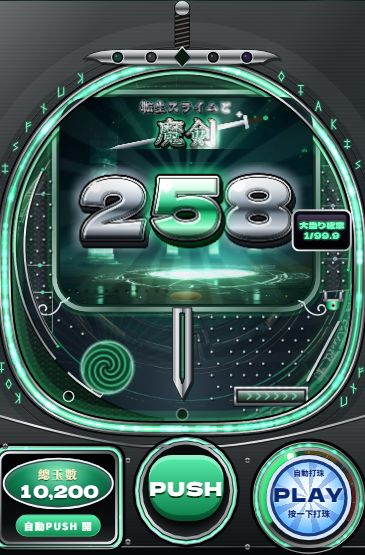
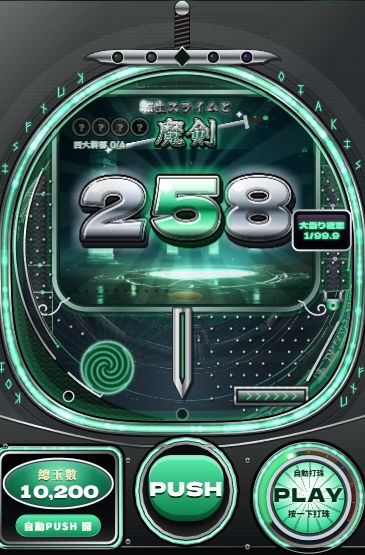
v71: machine 4 polish and gear frame

diff --git a/src/cabinet.js b/src/cabinet.js
@@ -663,17 +663,20 @@
     const holes = []; // black shapes in the body mask (acrylic / window)
     const acr = []; // translucent acrylic drawings
     let deco = ""; // everything on top
-    ART.strokes = []; ART.sprites = []; ART.leds = []; ART.fills = [];
+    ART.strokes = []; ART.sprites = []; ART.leds = []; ART.fills = []; S.ringBody = "";
 
     const win0 = loopPath(0, 3);
     holes.push(`<path d="${win0}"/>`);
 
-    // --- energy ring channel s 5..17
-    const band = loopPath(17, 3) + loopPath(5, 3);
-    holes.push(`<path d="${band}" fill-rule="evenodd"/>`);
-    acr.push(`<path d="${band}" fill-rule="evenodd" fill="url(#pkc-acryl)"/>`);
-    acr.push(`<path d="${loopPath(14.5, 3)}" fill="none" stroke="#fff" stroke-opacity=".10" stroke-width="2"/>`);
-    ART.strokes.push({ pts: loopPts(11, 11), closed: true, w: [16, 9, 2.6], gain: 1, main: true });
+    // --- energy ring channel s 5..17 (蒸氣巨神 can swap it for a ring of its own: S.ring, buildTitanRing)
+    const RING = S.frame === "titan" && S.ring ? S.ring : "band";
+    if (RING === "band") {
+      const band = loopPath(17, 3) + loopPath(5, 3);
+      holes.push(`<path d="${band}" fill-rule="evenodd"/>`);
+      acr.push(`<path d="${band}" fill-rule="evenodd" fill="url(#pkc-acryl)"/>`);
+      acr.push(`<path d="${loopPath(14.5, 3)}" fill="none" stroke="#fff" stroke-opacity=".10" stroke-width="2"/>`);
+      ART.strokes.push({ pts: loopPts(11, 11), closed: true, w: [16, 9, 2.6], gain: 1, main: true });
+    }
     // --- energy swirl band s0..s1 (lit by drawSwirl), clipped above the console
     const swirlD = loopPath(SWIRL.s1, 3) + loopPath(SWIRL.s0, 3);
     const WINGS = S.frame === "wings", SWORD = S.frame === "sword", TITAN = S.frame === "titan", PLAIN = WINGS || SWORD || TITAN;   // PLAIN: none of 炎舞神龍's ornaments
@@ -931,9 +934,11 @@
 
     // --- frame trims (chrome lips, bevels, engraving)
     let trims = "";
-    trims += `<path d="${loopPath(23, 3)}" fill="none" stroke="#06070a" stroke-width="3"/>`;
-    trims += `<path d="${loopPath(21.2, 3)}" fill="none" stroke="#9aa3ae" stroke-opacity=".35" stroke-width="1"/>`;
-    trims += `<path d="${loopPath(18.4, 3)}" fill="none" stroke="url(#pkc-chrome)" stroke-width="2.8"/>`;
+    if (RING === "band") {
+      trims += `<path d="${loopPath(23, 3)}" fill="none" stroke="#06070a" stroke-width="3"/>`;
+      trims += `<path d="${loopPath(21.2, 3)}" fill="none" stroke="#9aa3ae" stroke-opacity=".35" stroke-width="1"/>`;
+      trims += `<path d="${loopPath(18.4, 3)}" fill="none" stroke="url(#pkc-chrome)" stroke-width="2.8"/>`;
+    }
     trims += `<path d="${loopPath(3.6, 3)}" fill="none" stroke="url(#pkc-chrome)" stroke-width="3.2"/>`;
     trims += `<path d="${loopPath(0.6, 3)}" fill="none" stroke="#020203" stroke-width="2.4"/>`;
     trims += `<path d="${loopPath(36, 3)}" fill="none" stroke="#000" stroke-opacity=".5" stroke-width="1.4"/>`;
@@ -959,6 +964,7 @@
     s += `<rect width="588" height="860" fill="url(#pkc-carbon)" opacity=".5"/>`;
     }
     s += `<path d="${loopPath(60, 4)}" fill="none" stroke="#fff" stroke-opacity=".05" stroke-width="30"/>`;
+    s += S.ringBody || "";
     s += consoleBase;
     s += `</g>`;
     s += acr.join("");
@@ -1042,10 +1048,91 @@
 
   // 蒸氣巨神's cabinet (frame: "titan"): rivets round the frame, two pressure gauges in the top corners,
   // steam pipes down the sides and a half gear over the window, where the 3D head (titan3d.js) rests.
+  // 蒸氣巨神's own rings round the window, instead of the energy band every other machine has:
+  //  hatch: a riveted iron boiler-hatch ring with hex bolts, round lamps, two hinges and a locking handwheel;
+  //  gear:  a brass gear ring with teeth outward and lit slots through it;
+  //  pipe:  two copper pipes wrapped round the window, brass flanges, glowing sight glasses in the big one.
+  function buildTitanRing(style, holes, acr) {
+    let body = "", out = `<defs><linearGradient id="pkc-ironG" x1="0" y1="0" x2="1" y2="1"><stop offset="0" stop-color="#5a544c"/><stop offset=".45" stop-color="#2a2622"/><stop offset="1" stop-color="#121010"/></linearGradient></defs>`;
+    const band = (s0, s1) => loopPath(s1, 3) + " " + loopPath(s0, 3);
+    const clearOf = (p) => !(p[0] > 488 && p[1] > 316 && p[1] < 396) && !(p[1] < 112 && p[0] > 160 && p[0] < 428);   // the sub display; the half gear
+    const quad = (a, b, c, d) => `M${f1(a[0])},${f1(a[1])} L${f1(b[0])},${f1(b[1])} L${f1(c[0])},${f1(c[1])} L${f1(d[0])},${f1(d[1])} Z`;
+    const lamp = (p, r, k) => {
+      holes.push(`<circle cx="${f1(p[0])}" cy="${f1(p[1])}" r="${r}"/>`);
+      acr.push(`<circle cx="${f1(p[0])}" cy="${f1(p[1])}" r="${r}" fill="url(#pkc-ledGlass)"/>`);
+      ART.leds.push({ x: p[0], y: p[1], u: angU(p[0], p[1]), k });
+      return `<circle cx="${f1(p[0])}" cy="${f1(p[1])}" r="${r + 1.8}" fill="none" stroke="url(#pkc-brassG)" stroke-width="2.4"/>`;
+    };
+    if (style === "hatch") {
+      body += `<path d="${band(0, 27)}" fill-rule="evenodd" fill="url(#pkc-ironG)"/>`;
+      body += `<path d="${loopPath(27, 3)}" fill="none" stroke="url(#pkc-brassG)" stroke-width="3"/><path d="${loopPath(29, 3)}" fill="none" stroke="#000" stroke-opacity=".5" stroke-width="2"/>`;
+      body += `<path d="${loopPath(14, 3)}" fill="none" stroke="#000" stroke-opacity=".35" stroke-width="1.2"/>`;   // the seam between the two plates
+      let bolts = "", k = 0;
+      for (let deg = 0; deg < 360; deg += 8) {
+        const p = fpt(deg, 13.5);
+        if (!clearOf(p)) continue;
+        if (deg % 24 === 0) { out += lamp(p, 5.2, k++); continue; }
+        let hx = "";
+        for (let j = 0; j < 6; j++) { const a = j * 60 * DEG; hx += (j ? "L" : "M") + f1(p[0] + Math.cos(a) * 4.2) + "," + f1(p[1] + Math.sin(a) * 4.2); }
+        bolts += `<path d="${hx}Z"/>`;
+      }
+      out += `<g fill="url(#pkc-brassG)" stroke="#1a1006" stroke-width=".8">${bolts}</g>`;
+      for (const deg of [206, 236]) {   // hinges on the upper left
+        const m0 = fpt(deg, 40), m1 = fpt(deg, 48);
+        out += `<path d="${quad(fpt(deg - 3.5, 20), fpt(deg + 3.5, 20), fpt(deg + 3.5, 44), fpt(deg - 3.5, 44))}" fill="url(#pkc-ironG)" stroke="url(#pkc-brassG)" stroke-width="2"/>`;
+        out += `<line x1="${f1(m0[0])}" y1="${f1(m0[1])}" x2="${f1(m1[0])}" y2="${f1(m1[1])}" stroke="url(#pkc-brassG)" stroke-width="9" stroke-linecap="round"/>`;
+      }
+      const w = fpt(322, 16), R = 24;   // the locking handwheel on the upper right
+      let sp = "";
+      for (let j = 0; j < 6; j++) { const a = (j * 60 + 15) * DEG; sp += `M${f1(w[0])},${f1(w[1])} L${f1(w[0] + Math.cos(a) * R)},${f1(w[1] + Math.sin(a) * R)}`; }
+      out += `<circle cx="${f1(w[0] + 2)}" cy="${f1(w[1] + 3)}" r="${R + 3}" fill="none" stroke="#000" stroke-opacity=".5" stroke-width="7"/>`;
+      out += `<path d="${sp}" stroke="url(#pkc-brassG)" stroke-width="4.5"/><circle cx="${f1(w[0])}" cy="${f1(w[1])}" r="${R}" fill="none" stroke="url(#pkc-brassG)" stroke-width="6"/>`;
+      out += `<circle cx="${f1(w[0])}" cy="${f1(w[1])}" r="7" fill="#2a1406" stroke="url(#pkc-brassG)" stroke-width="3"/>`;
+    } else if (style === "gear") {
+      let teeth = "";
+      for (let deg = 0; deg < 360; deg += 5) teeth += quad(fpt(deg - 1.5, 19), fpt(deg + 1.5, 19), fpt(deg + 1, 31), fpt(deg - 1, 31));
+      body += `<path d="${teeth}" fill="url(#pkc-brassG)" stroke="#2a1a08" stroke-width="1"/>`;
+      body += `<path d="${band(0, 20)}" fill-rule="evenodd" fill="url(#pkc-brassG)"/><path d="${band(0, 20)}" fill-rule="evenodd" fill="#000" fill-opacity=".25"/>`;
+      body += `<path d="${loopPath(20, 3)}" fill="none" stroke="#2a1a08" stroke-width="1.6"/><path d="${loopPath(6, 3)}" fill="none" stroke="#fff0c8" stroke-opacity=".45" stroke-width="1.2"/>`;
+      let k = 0;
+      for (let deg = 0; deg < 360; deg += 7.5) {   // slots through the rim, lit from behind
+        const p = fpt(deg, 11.5);
+        if (!clearOf(p)) continue;
+        const i0 = fpt(deg, 5), i1 = fpt(deg, 18), nx = i1[0] - i0[0], ny = i1[1] - i0[1], L0 = Math.hypot(nx, ny) || 1, tx = (-ny / L0) * 3.6, ty = (nx / L0) * 3.6;
+        const d = quad([i0[0] + tx, i0[1] + ty], [i1[0] + tx, i1[1] + ty], [i1[0] - tx, i1[1] - ty], [i0[0] - tx, i0[1] - ty]);
+        holes.push(`<path d="${d}"/>`); acr.push(`<path d="${d}" fill="url(#pkc-ledGlass)"/>`);
+        ART.leds.push({ x: p[0], y: p[1], u: angU(p[0], p[1]), k: k++ });
+      }
+    } else if (style === "pipe") {
+      const pipe = (sm, w) => `<path d="${loopPath(sm, 3)}" fill="none" stroke="#1a0a04" stroke-width="${w + 2}"/><path d="${loopPath(sm, 3)}" fill="none" stroke="#8a4a20" stroke-width="${w}"/>` +
+        `<path d="${loopPath(sm - w * 0.18, 3)}" fill="none" stroke="#e8a070" stroke-width="${f1(w * 0.3)}" stroke-opacity=".8"/><path d="${loopPath(sm - w * 0.28, 3)}" fill="none" stroke="#fff0e0" stroke-width="1.4" stroke-opacity=".55"/>`;
+      body += `<path d="${band(0, 32)}" fill-rule="evenodd" fill="#0c0806" fill-opacity=".55"/>`;
+      body += pipe(27, 7);
+      body += pipe(12, 14);
+      for (let deg = 0; deg < 360; deg += 30) {
+        // a brass flange round both pipes
+        out += `<path d="${quad(fpt(deg - 1.2, 3), fpt(deg + 1.2, 3), fpt(deg + 1.2, 32), fpt(deg - 1.2, 32))}" fill="url(#pkc-brassG)" stroke="#2a1a08" stroke-width="1"/>`;
+        // a sight glass in the big pipe between flanges: a lit slit
+        const pts = arcPts(deg + 9, deg + 21, 12, 3), mid = pts[Math.floor(pts.length / 2)];
+        if (!clearOf(mid)) continue;
+        const o = arcPts(deg + 9, deg + 21, 15, 3), i = arcPts(deg + 9, deg + 21, 9, 3), d2 = ptsPath(o.concat(i.slice().reverse()), true);
+        holes.push(`<path d="${d2}"/>`); acr.push(`<path d="${d2}" fill="url(#pkc-acryl)"/>`);
+        out += `<path d="${d2}" fill="none" stroke="url(#pkc-brassG)" stroke-width="1.6"/>`;
+        ART.strokes.push({ pts, closed: false, w: [9, 5, 1.6], gain: 0.95 });
+      }
+      for (const deg of [200, 340]) {   // valves with red handwheels
+        const v = fpt(deg, 27);
+        out += `<circle cx="${f1(v[0])}" cy="${f1(v[1])}" r="9" fill="url(#pkc-brassG)" stroke="#2a1a08"/><circle cx="${f1(v[0])}" cy="${f1(v[1] - 12)}" r="9" fill="none" stroke="#c0281a" stroke-width="3.5"/>`;
+        out += `<path d="M${f1(v[0] - 9)},${f1(v[1] - 12)} L${f1(v[0] + 9)},${f1(v[1] - 12)} M${f1(v[0])},${f1(v[1] - 21)} L${f1(v[0])},${f1(v[1] - 3)}" stroke="#c0281a" stroke-width="2.4"/>`;
+      }
+    }
+    S.ringBody = body;
+    return out;
+  }
   function buildTitanFrame(holes, acr) {
-    let out = "";
+    let out = S.ring ? buildTitanRing(S.ring, holes, acr) : "";
     let rv = "";
-    for (let deg = 0; deg < 360; deg += 5) {
+    for (let deg = 0; deg < 360 && !S.ring; deg += 5) {
       const p = fpt(deg, 30);
       if (p[0] < 6 || p[0] > 582 || p[1] < 10 || p[1] > 622) continue;
       if (p[0] > 488 && p[1] > 316 && p[1] < 396) continue;   // the sub display
@@ -1860,6 +1947,7 @@
     x.save();
     const g = x.createLinearGradient(515, 0, 541, 0);
     if (S.steel) { g.addColorStop(0, "#04301c"); g.addColorStop(0.3, "#2ad890"); g.addColorStop(0.55, "#c8ffe4"); g.addColorStop(0.8, "#108a54"); g.addColorStop(1, "#032414"); }
+    else if (S.brass) { g.addColorStop(0, "#2a1606"); g.addColorStop(0.3, "#c08030"); g.addColorStop(0.55, "#ffe0a0"); g.addColorStop(0.8, "#8a5418"); g.addColorStop(1, "#201004"); }   // 蒸氣巨神: brass
     else { g.addColorStop(0, "#5a0a06"); g.addColorStop(0.3, "#ff4a30"); g.addColorStop(0.55, "#ffb0a0"); g.addColorStop(0.8, "#c01a10"); g.addColorStop(1, "#4a0604"); }
     x.fillStyle = g; x.strokeStyle = "#1a0202"; x.lineWidth = 1.2;
     x.beginPath(); x.moveTo(515, 464); x.lineTo(541, 464); x.lineTo(539, 476); x.quadraticCurveTo(528, 484, 517, 476); x.closePath(); x.fill(); x.stroke();
@@ -2522,7 +2610,7 @@
   }
 
   function drawWisps(x) {
-    const st = ART.strokes[0];
+    const st = ART.strokes.find((k) => k.main);   // none on a frame without the energy band
     if (!st) return;
     const pts = st.pts, n = pts.length;
     const wc = (S.neon && NEON_WISP[S.theme]) || WISP[S.theme] || WISP.normal;
@@ -3060,6 +3148,8 @@
     S.brass = els.theme === "brass";
     S.gimmick = mc.gimmick || null;
     S.frame = mc.frame || "dragon";
+    S.ring = mc.ring || null;
+    try { const q = new URLSearchParams(location.search).get("ring"); if (q) S.ring = q; } catch (e) { /* ignore */ }   // dev previews
     pinLayout = mc.pins || "enbu";
     ATT_X = pinLayout === "angel" ? 294 : 432;
     SLOPE = pinLayout === "angel" ? SLOPE_ANGEL : SLOPE_ENBU;

diff --git a/src/lcd.js b/src/lcd.js
@@ -553,13 +553,16 @@
   function buildBrassLogo(c, g, K, w, h, variant, stage) {
     const P = PAL.fire;
     g.save(); g.globalCompositeOperation = "lighter";   // a furnace glow behind the letters
-    const hz = g.createRadialGradient(150, 50, 4, 150, 50, 130);
+    // an ellipse that fades out inside the canvas: a round glow was cut square by its edges
+    g.translate(150, 46); g.scale(1, 0.29);
+    const hz = g.createRadialGradient(0, 0, 4, 0, 0, 144);
     hz.addColorStop(0, "rgba(255,160,50,0.35)"); hz.addColorStop(1, "rgba(255,160,50,0)");
-    g.fillStyle = hz; g.fillRect(0, 0, w, h);
+    g.fillStyle = hz; g.fillRect(-150, -160, 300, 320);
     g.restore();
-    brassGear(g, 150, 50, 46, 16, "rgba(0,0,0,0.55)", 9);   // the great gear behind the title
-    brassGear(g, 150, 50, 46, 16, "#c8963c", 5);
-    brassGear(g, 150, 50, 46, 16, "rgba(255,240,200,0.6)", 1.2);
+    // the great gear behind the title, whole inside the 86-high canvas (at r 46 its lower teeth were cut off)
+    brassGear(g, 150, 43, 37, 16, "rgba(0,0,0,0.55)", 9);
+    brassGear(g, 150, 43, 37, 16, "#c8963c", 5);
+    brassGear(g, 150, 43, 37, 16, "rgba(255,240,200,0.6)", 1.2);
     if (variant === "rush") {
       const st = RUSH_STAGES[stage || 0], rp = PAL[st.pal];
       fancyText(g, T(st.name), 150, 34, { K, size: 26, font: FONT_BRUSH, align: "center", face: P.face, rim: P.rim, inner: P.inner, ext: P.ext, glow: P.glow, outline: 0.14 });
@@ -2013,9 +2016,19 @@
 .g-fire{--gr:linear-gradient(180deg,#ffffff 0%,#d8ffec 22%,#5af0b0 44%,#0e9a5a 64%,#04502c 82%,#b0ffd8 100%);--bk:#002412;--bk2:#000e06;--gl:rgba(42,216,144,.9);--hl:#f0fff8;}
 .g-blue{--gr:linear-gradient(180deg,#ffffff 0%,#eef4fa 22%,#b8c6d4 46%,#4a5664 62%,#c8d4e0 82%,#ffffff 100%);--bk:#141a20;--bk2:#06080a;--gl:rgba(200,225,240,.85);--hl:#ffffff;}
 .pkl-aim{background:linear-gradient(180deg,#2ad890,#06603a);border-color:#c8ffe4;box-shadow:0 0 12px rgba(42,216,144,.9);}`;
+  // 蒸氣巨神's: the boxes are riveted iron plates with a brass rim, blue numbers turn steel with a furnace glow,
+  // and the 右打ち sign is a brass plate (machine 1's were blue boxes and a red sign)
+  const CSS_BRASS = `
+.g-blue{--gr:linear-gradient(180deg,#ffffff 0%,#f4ecdc 22%,#c8b898 46%,#5a4a30 62%,#d8c8a8 82%,#fff8e8 100%);--bk:#1a1006;--bk2:#080402;--gl:rgba(255,170,60,.8);--hl:#fffaf0;}
+.pkl-box{background:radial-gradient(circle at 6px 6px,#e8c070 1.6px,transparent 2.2px),radial-gradient(circle at calc(100% - 6px) 6px,#e8c070 1.6px,transparent 2.2px),
+  radial-gradient(circle at 6px calc(100% - 6px),#e8c070 1.6px,transparent 2.2px),radial-gradient(circle at calc(100% - 6px) calc(100% - 6px),#e8c070 1.6px,transparent 2.2px),
+  linear-gradient(180deg,rgba(42,26,10,.9),rgba(14,8,2,.92));border:2px solid #d8a048;border-radius:6px;
+  box-shadow:0 0 10px rgba(255,150,40,.55),inset 0 0 10px rgba(255,140,30,.35);}
+.pkl-box .g-cyan{--gr:linear-gradient(180deg,#ffffff 0%,#fff0c8 24%,#f0b84a 48%,#8a5010 64%,#ffd890 84%,#fff4d8 100%);--bk:#1a0e02;--bk2:#080400;--gl:rgba(255,160,40,.85);--hl:#fffaf0;}
+.pkl-aim{background:linear-gradient(180deg,#f0cc78,#8a5418 60%,#4a2a08);border-color:#fff0c8;border-radius:5px;box-shadow:0 0 12px rgba(255,160,50,.85);text-shadow:0 2px 0 #2a1404,0 0 6px rgba(255,230,180,.6);}`;
   function injectCss() {
     if (document.getElementById("pkl-css")) return;
-    const st = document.createElement("style"); st.id = "pkl-css"; st.textContent = CSS + (THEME === "neon" ? CSS_NEON : STEEL ? CSS_STEEL : "");
+    const st = document.createElement("style"); st.id = "pkl-css"; st.textContent = CSS + (THEME === "neon" ? CSS_NEON : STEEL ? CSS_STEEL : BRASS ? CSS_BRASS : "");
     document.head.appendChild(st);
   }
   function mkText(text, cls, size, font, stat) {
@@ -2753,7 +2766,8 @@
       }
     }, { seq: true });
     fireBurst(CX, 168, 30, 260, "front");
-    telop(T("lcd.kokuchi"), { x: CX, y: 168, size: 88, cls: "kokuchi", font: FONT_POP, anim: "slam", inD: 0.16, dur: 1.4, jitter: 6 });
+    const kt = T("lcd.kokuchi"), kem = [...kt].reduce((n, ch) => n + (ch.charCodeAt(0) < 256 ? 0.5 : 1), 0);   // fit a longer word (巨神起動!!) on the screen
+    telop(kt, { x: CX, y: 168, size: Math.min(88, Math.floor((W - 24) / Math.max(1, kem))), cls: "kokuchi", font: FONT_POP, anim: "slam", inD: 0.16, dur: 1.4, jitter: 6 });
     ctxs.emit("kokuchi");
   }
   function holdChangeFx(to, ctxs) {
@@ -3781,11 +3795,12 @@
   function awakenStart() {
     Object.assign(awaken, { on: true, g: 0, t0: clk.t, res: null, resT: 0 });
     telop(T("lcd.awakenTitle"), { x: CX, y: 70, size: 26, cls: "rainbow", anim: "slam", stay: true });
-    telop(T("lcd.awakenHint"), { x: CX, y: 262, size: 18, cls: "gold", anim: "pop", dur: 3, inD: 0.5 });
+    telop(T("lcd.awakenHint"), { x: CX, y: BRASS ? 100 : 262, size: 18, cls: "gold", anim: "pop", dur: 3, inD: 0.5 });
   }
   function awakenTap() {
     awaken.g = Math.min(0.92, awaken.g + 0.05);   // the last bit is the reveal's
     if (STEEL) { prey(); soulSpawn(true); shake(1.2); return "awaken"; }
+    if (BRASS) { steamPuff(CX - 70, 196, -1, 6); steamPuff(CX + 70, 196, 1, 6); TA.kick = 1; shake(1.4); return "awaken"; }
     const a = -Math.PI / 2 + awaken.g * TAU;
     burst("front", AW.x + Math.cos(a) * AW.r, AW.y + Math.sin(a) * AW.r, 8, { cols: [C.gold, C.white], v0: 60, v1: 180, s0: 1, s1: 2.2, len: 12 });
     shake(1.2);
@@ -3829,13 +3844,13 @@
     for (let i = 0; i < CMD.names.length; i++) {
       const pop = i === CMD.popI ? Math.max(0, 1 - (clk.t - CMD.popT) / 0.6) : 0;
       const r = 13 * (1 + 0.5 * Math.sin(pop * Math.PI));
-      drawCmdSlot(ctx, i, 24 + i * 30, 28, r, i < CMD.n, fx.logoA);   // clear of the logo
+      drawCmdSlot(ctx, i, 34 + i * 30, 46, r, i < CMD.n, fx.logoA);   // clear of the logo and inside the window arc (ui.css clips the LCD to it)
     }
     ctx.globalAlpha = fx.logoA;
     ctx.font = "700 13px " + FONT_POP; ctx.textAlign = "left"; ctx.textBaseline = "middle";
     ctx.lineWidth = 3; ctx.strokeStyle = "rgba(0,0,0,0.8)"; ctx.fillStyle = "#cfeee0";
     const lb = T("lcd.cmdLabel", { n: CMD.n });
-    ctx.strokeText(lb, 10, 56); ctx.fillText(lb, 10, 56);
+    ctx.strokeText(lb, 22, 74); ctx.fillText(lb, 22, 74);
     ctx.restore();
   }
   // A recruit: a dark band, the portrait sliding in, the name, the four slots.
@@ -4003,8 +4018,72 @@
     }
     ctx.restore();
   }
+  // 蒸氣巨神's challenge: the colossus stands dark, its chest furnace burning brighter with the gauge, a brass
+  // pressure gauge on the left whose needle climbs to the red, steam from both sides at each PUSH.
+  const TA = { kick: 0, puffT: 0, gx: 74, gy: 176, gr: 50 };
+  function steamPuff(x, y, dir, n) {
+    for (let i = 0; i < n; i++) emit("front", { x, y, vx: dir * rand(60, 170), vy: rand(-70, -20), drag: 2.2, ay: -30, life: rand(0.6, 1.2),
+      s0: rand(6, 10), s1: rand(22, 34), type: "smoke", col: "255,240,225", a0: 0.5, add: false });
+  }
+  function drawAwakenTitan(ctx) {
+    const t = clk.t, im = IMG.hero, live = awaken.res == null;
+    if (live) awaken.g = Math.min(0.92, awaken.g + 0.0025);
+    const g = awaken.res === true ? 1 : awaken.g;
+    const lit = awaken.res === true ? Math.min(1, (t - awaken.resT) / 0.4) : 0;
+    const fade = awaken.res === false ? Math.max(0, 1 - (t - awaken.resT) / 1.4) : 1;
+    const cool = awaken.res === false ? Math.min(1, (t - awaken.resT) / 0.8) : 0;
+    if (live && t - TA.puffT > 0.9) { TA.puffT = t; steamPuff(CX + (rng() < 0.5 ? -60 : 60), 220, rng() < 0.5 ? -1 : 1, 3); }
+    TA.kick *= 0.88;
+    ctx.save();
+    ctx.fillStyle = "rgba(0,0,0," + (0.62 * (1 - lit)).toFixed(3) + ")"; ctx.fillRect(0, 0, W, H);
+    const heat = g * (1 - cool), fl = 0.85 + 0.15 * Math.sin(t * 13) * Math.sin(t * 7.3);
+    const h = H * 0.92 * (1 + 0.012 * Math.sin(t * 2.2)), cy = H / 2 + 14, chestY = cy - h * 0.08;
+    ctx.globalCompositeOperation = "lighter";   // the furnace light behind it, so its outline shows against the dark
+    drawGlow(ctx, C.ember, CX, chestY, 120 + 120 * heat, (0.12 + 0.4 * heat) * fl * fade + 0.5 * lit);
+    ctx.globalCompositeOperation = "source-over";
+    if (im) {
+      ctx.globalAlpha = fade;
+      drawArtDragon(ctx, tinted(im, "#000", Math.round(13.2 * (1 - lit) * (1 - 0.4 * heat)) / 20), CX, cy, h, false);
+      if (lit > 0) { ctx.globalAlpha = lit; drawArtDragon(ctx, im, CX, cy, h, false); }
+      ctx.globalAlpha = 1;
+    }
+    ctx.globalCompositeOperation = "lighter";   // the core itself: an ember that turns white-hot
+    drawGlow(ctx, C.orange, CX, chestY, 26 + 40 * heat, (0.3 + 0.6 * heat) * fl * fade);
+    drawGlow(ctx, C.yellow, CX, chestY, 10 + 22 * heat, (0.2 + 0.7 * heat) * fl * fade);
+    if (lit) drawGlow(ctx, C.white, CX, chestY, 90, 0.7 * lit);
+    ctx.globalCompositeOperation = "source-over";
+    // the pressure gauge
+    const { gx, gy, gr } = TA;
+    ctx.globalAlpha = fade;
+    const rim = ctx.createLinearGradient(gx - gr, gy - gr, gx + gr, gy + gr);
+    rim.addColorStop(0, "#fff0c8"); rim.addColorStop(0.35, "#c8963c"); rim.addColorStop(0.7, "#6a4210"); rim.addColorStop(1, "#e8c070");
+    ctx.fillStyle = "rgba(0,0,0,0.55)"; ctx.beginPath(); ctx.arc(gx + 3, gy + 4, gr + 6, 0, TAU); ctx.fill();
+    ctx.fillStyle = rim; ctx.beginPath(); ctx.arc(gx, gy, gr + 6, 0, TAU); ctx.fill();
+    const face = ctx.createRadialGradient(gx - 12, gy - 14, 4, gx, gy, gr);
+    face.addColorStop(0, "#fffaf0"); face.addColorStop(1, "#d8c8a0");
+    ctx.fillStyle = face; ctx.beginPath(); ctx.arc(gx, gy, gr, 0, TAU); ctx.fill();
+    const A0 = Math.PI * 0.75, SW = Math.PI * 1.5;   // 0 at lower left, 100 at lower right
+    ctx.lineWidth = 7; ctx.strokeStyle = "rgba(200,30,10,0.85)";   // the red zone
+    ctx.beginPath(); ctx.arc(gx, gy, gr - 9, A0 + SW * 0.8, A0 + SW); ctx.stroke();
+    ctx.strokeStyle = "#2a1a08";
+    for (let i = 0; i <= 20; i++) {
+      const a = A0 + SW * (i / 20), r0 = gr - (i % 5 ? 7 : 13);
+      ctx.lineWidth = i % 5 ? 1.2 : 2.4;
+      ctx.beginPath(); ctx.moveTo(gx + Math.cos(a) * r0, gy + Math.sin(a) * r0); ctx.lineTo(gx + Math.cos(a) * (gr - 2), gy + Math.sin(a) * (gr - 2)); ctx.stroke();
+    }
+    ctx.font = "900 15px " + FONT_DIGIT; ctx.textAlign = "center"; ctx.textBaseline = "middle"; ctx.fillStyle = "#2a1a08";
+    ctx.fillText(Math.round(100 * g) + "%", gx, gy + gr * 0.5);
+    const na = A0 + SW * Math.min(1, g + 0.03 * TA.kick + (live ? 0.006 * Math.sin(t * 31) : 0));
+    ctx.save(); ctx.translate(gx, gy); ctx.rotate(na);
+    ctx.fillStyle = "#b01a08"; ctx.beginPath(); ctx.moveTo(-8, -2.6); ctx.lineTo(gr - 8, 0); ctx.lineTo(-8, 2.6); ctx.closePath(); ctx.fill();
+    ctx.restore();
+    ctx.fillStyle = "#3a2408"; ctx.beginPath(); ctx.arc(gx, gy, 5, 0, TAU); ctx.fill();
+    ctx.fillStyle = "rgba(255,255,255,0.35)"; ctx.beginPath(); ctx.ellipse(gx - 14, gy - 20, 20, 9, -0.6, 0, TAU); ctx.fill();   // the glass
+    ctx.restore();
+  }
   function drawAwaken(ctx) {
     if (STEEL) { drawAwakenSlime(ctx); return; }
+    if (BRASS) { drawAwakenTitan(ctx); return; }
     const t = clk.t, im = goldDragon();
     if (awaken.res == null) awaken.g = Math.min(0.92, awaken.g + 0.0025);   // creeps up a little each frame
     const lit = awaken.res === true ? Math.min(1, (t - awaken.resT) / 0.4) : awaken.res === false ? 0 : awaken.g * 0.35;
@@ -4050,7 +4129,7 @@
       if (STEEL) burst("front", SL.x, SL.y, 50, { cols: [EM, C.white], v0: 200, v1: 600, s0: 1.4, s1: 3.4, len: 28 });
       if (VID.awaken) {   // the 神龍 wakes on film: white in, the clip, white out onto the title
         white(1, 0.12); await wait(0.14);
-        const film = playClipToEnd("awaken", STEEL ? 2.6 : AWAKEN_CLIP_END);   // machine 3's clip is good throughout
+        const film = playClipToEnd("awaken", STEEL || BRASS ? 2.6 : AWAKEN_CLIP_END);   // machine 3's clip is good throughout
         white(0, 0.3);
         await film;
         white(1, 0.1); await wait(0.12); white(0, 0.5);

diff --git a/src/ui.css b/src/ui.css
@@ -393,6 +393,9 @@
   /* its PLAY knob: a pressure gauge's glass over the furnace, a brass rim */
   #app[data-machine="titan"] #handle { background: radial-gradient(circle at 50% 42%, #fffaf0 0%, #ffe8c0 24%, #ffa040 56%, #8a3a08 80%, #1a0a02 100%);
     box-shadow: inset 0 0 0 6px #e8c070, inset 0 0 0 9px #6a4818, inset 0 0 0 11px #2a1a08, 0 6px 14px rgba(0, 0, 0, 0.6); }
+  /* the window's top is an arc (layout.js L.win), so a square LCD's top corners stick out past the ring:
+     clip it to the window ellipse, 6 inside (centre 294,380 in stage units = 190,230 in the LCD's own) */
+  #app:not([data-machine="angel"]) #lcd { clip-path: ellipse(258px 266px at 190px 230px); }   /* every square LCD (霓虹天使's is round) */
   #app[data-machine="titan"] #handle .grip { background: repeating-conic-gradient(from 0deg, rgba(42, 20, 4, 0.55) 0 3deg, rgba(255, 255, 255, 0) 3deg 27deg); }
   #app[data-machine="titan"] #handle b, #app[data-machine="titan"] #handle .lbl, #app[data-machine="titan"] #handle .pw { color: #2a1004; }
   #app[data-machine="titan"] #handle.on { box-shadow: inset 0 0 0 6px #fff0c8, inset 0 0 0 9px #6a4818, inset 0 0 0 11px #2a1a08, 0 0 26px 6px rgba(255, 160, 60, 0.8); }

diff --git a/src/machines.js b/src/machines.js
@@ -10,7 +10,7 @@
   PK.MACHINES = PK.MACHINES || {};
   // The version the player sees (menu, and a toast after an update): the Artifact version this is
   // published as. Bump it on every publish; both machines' pages and the public site read it here.
-  PK.VERSION = 70;
+  PK.VERSION = 71;
 
   PK.MACHINES.enbu = {
     id: "enbu",
@@ -237,7 +237,7 @@
     tagline: "【試作中】古代機械巨神：3D 大型機關、ラッキートリガー、神域RUSH",
     odds: E.odds,
     engine: E.engine,
-    cabinet: { pins: "titan", frame: "titan", art: {} },
+    cabinet: { pins: "titan", frame: "titan", ring: "gear", art: { board: { file: "board.jpg" } } },   // ring: the brass gear rim (the user picked B of three), not the energy band
     // the 3D head (src/titan3d.js): its canvas over the stage (design units), resting in front of the half
     // gear over the window and dropping in front of the LCD's top (three.js world units, scale)
     // ラッキートリガー: a RUSH hit pulls it with `chance`; the rest of the streak (神域RUSH) runs one odds
